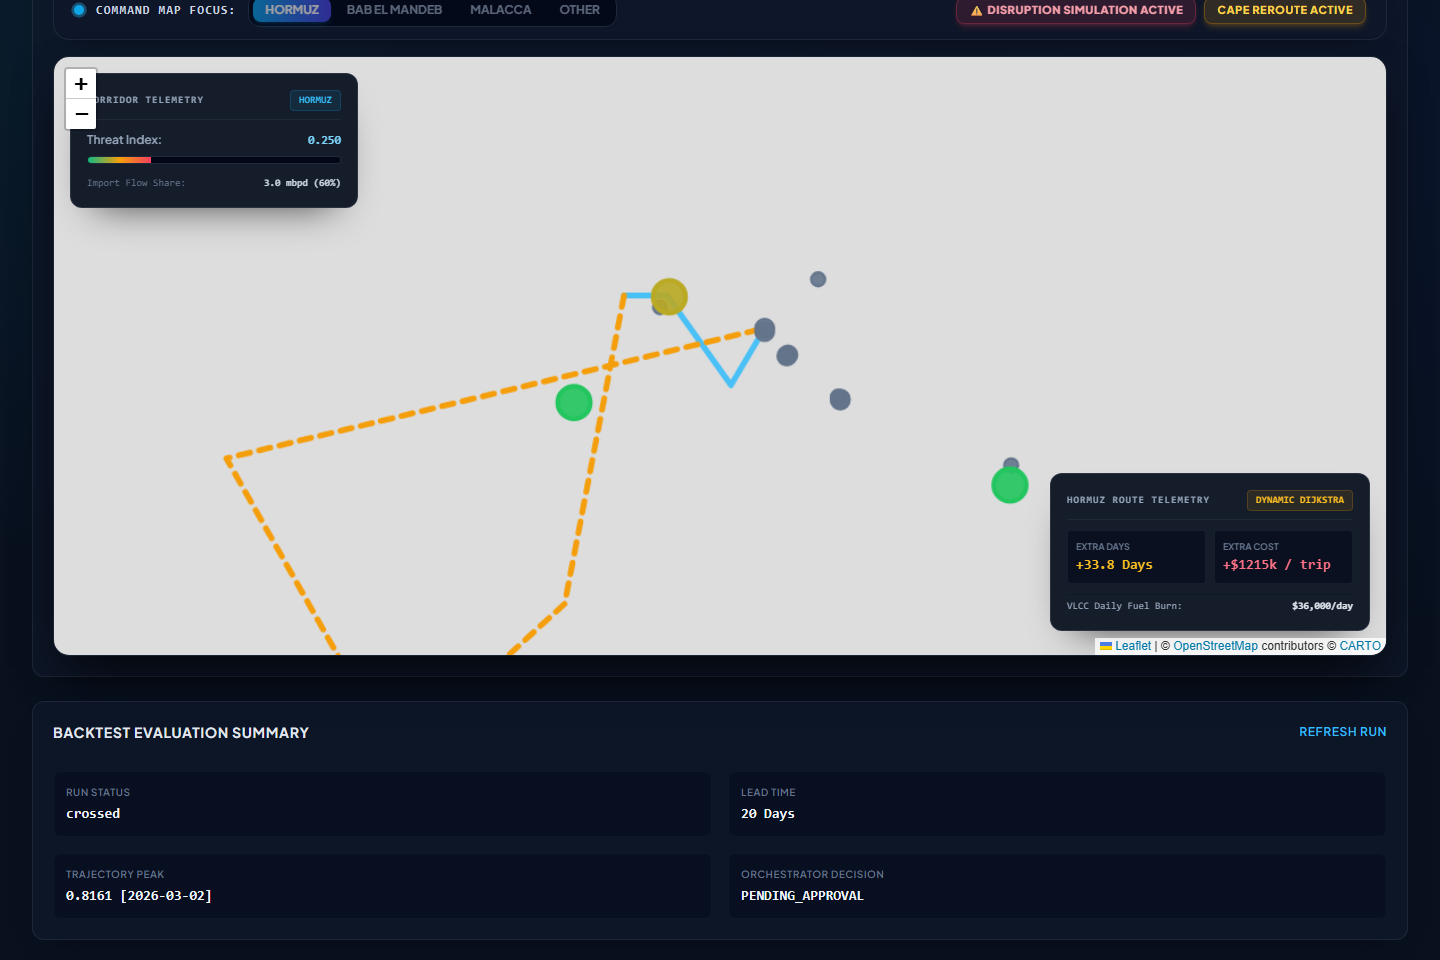
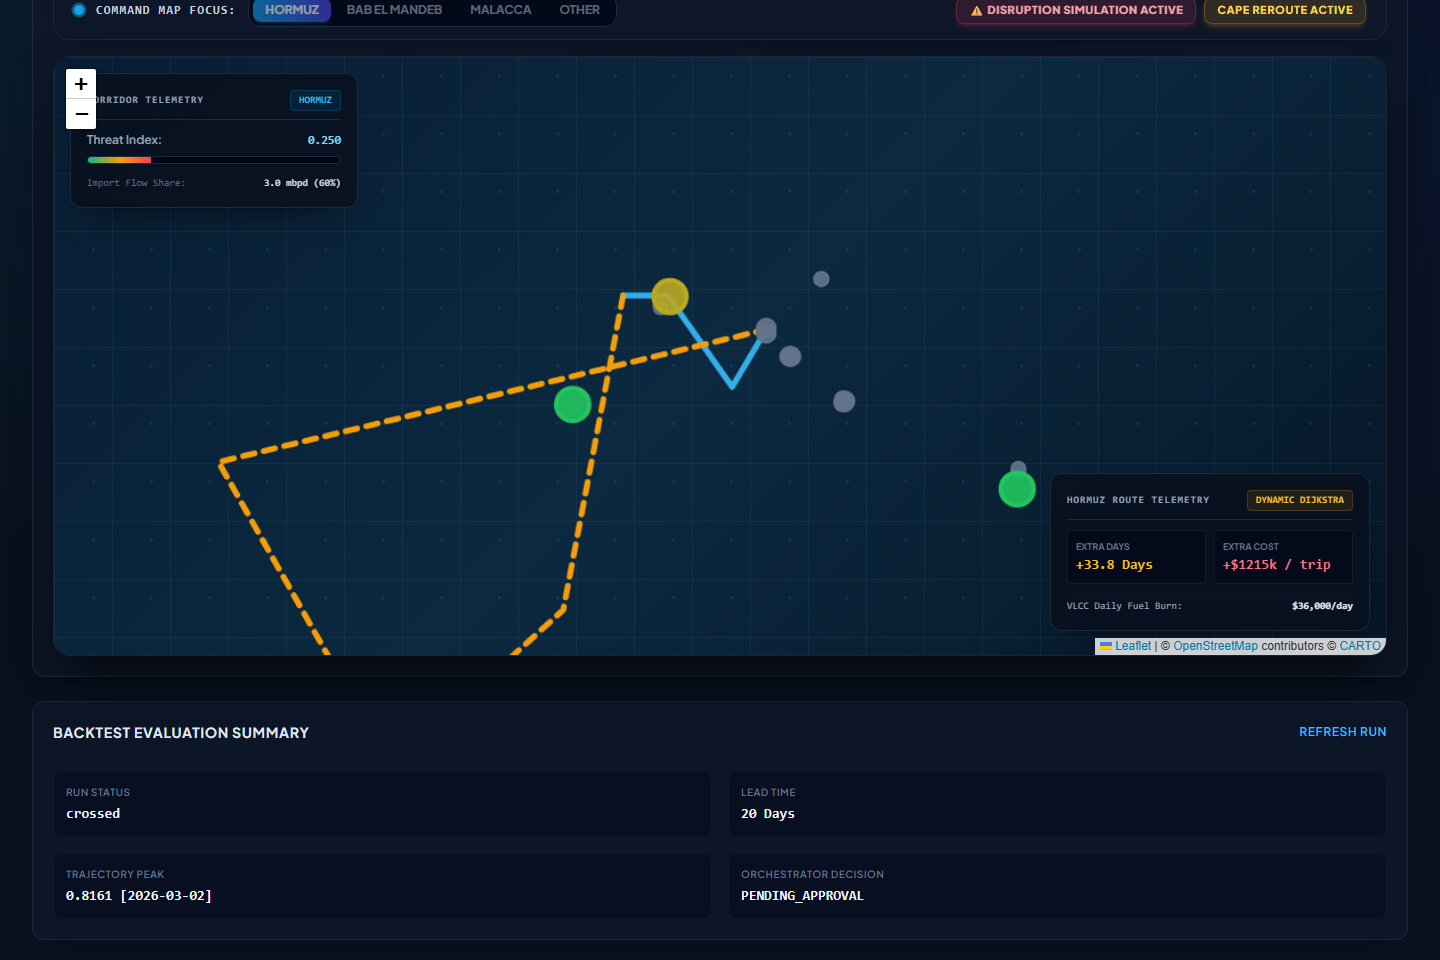
fix: add resilient map fallback

diff --git a/frontend/src/components/MapView.tsx b/frontend/src/components/MapView.tsx
@@ -221,6 +221,19 @@ export default function MapView({
         id="setu-map-container"
         className="h-[600px] w-full overflow-hidden rounded-2xl border border-slate-800/80 shadow-2xl shadow-black/80 bg-[#070b14] relative group"
       >
+        {useOfflineTiles && (
+          <div className="setu-map-fallback absolute inset-0" aria-label="Offline basemap fallback">
+            <span className="absolute left-[12%] top-[26%] text-[10px] font-mono font-bold tracking-[0.28em] text-sky-200/35">
+              ARABIAN SEA
+            </span>
+            <span className="absolute right-[13%] bottom-[20%] text-[10px] font-mono font-bold tracking-[0.28em] text-sky-200/35">
+              INDIAN OCEAN
+            </span>
+            <span className="absolute bottom-4 left-4 rounded border border-sky-400/20 bg-slate-950/75 px-3 py-1.5 text-[10px] font-mono font-semibold uppercase tracking-wider text-sky-200/80">
+              Basemap unavailable · route geometry active
+            </span>
+          </div>
+        )}
         {/* Floating Left Overlay Panel (Threat Metrics HUD) */}
         <div className="absolute top-4 left-4 z-[1000] w-72 bg-glass-heavy p-4 rounded-xl border border-slate-800/90 shadow-2xl pointer-events-auto space-y-3">
           <div className="flex items-center justify-between border-b border-slate-800 pb-2">
@@ -279,19 +292,21 @@ export default function MapView({
           </div>
         </div>
 
-        <MapContainer center={MAP_CENTER} zoom={MAP_ZOOM} className="h-full w-full">
+        <MapContainer
+          center={MAP_CENTER}
+          zoom={MAP_ZOOM}
+          className={`h-full w-full ${useOfflineTiles ? "setu-map-offline" : ""}`}
+        >
           <MapRecenter center={targetCenter} />
-          <TileLayer
-            attribution='&copy; <a href="https://www.openstreetmap.org/copyright">OpenStreetMap</a> contributors &copy; <a href="https://carto.com/attributions">CARTO</a>'
-            url={
-              useOfflineTiles
-                ? "/tiles/{z}/{x}/{y}.png"
-                : "https://{s}.basemaps.cartocdn.com/dark_all/{z}/{x}/{y}{r}.png"
-            }
-            eventHandlers={{
-              tileerror: () => setUseOfflineTiles(true),
-            }}
-          />
+          {!useOfflineTiles && (
+            <TileLayer
+              attribution='&copy; <a href="https://www.openstreetmap.org/copyright">OpenStreetMap</a> contributors &copy; <a href="https://carto.com/attributions">CARTO</a>'
+              url="https://{s}.basemaps.cartocdn.com/dark_all/{z}/{x}/{y}{r}.png"
+              eventHandlers={{
+                tileerror: () => setUseOfflineTiles(true),
+              }}
+            />
+          )}
 
           {/* Dynamic Normal Route Line (Cyan) */}
           <Polyline

diff --git a/frontend/src/index.css b/frontend/src/index.css
@@ -43,6 +43,34 @@
     linear-gradient(to bottom, rgba(255, 255, 255, 0.02) 1px, transparent 1px);
 }
 
+/* Intentional offline map surface when external raster tiles are unavailable. */
+.setu-map-fallback {
+  background-color: #071525;
+  background-image:
+    radial-gradient(ellipse at 46% 42%, rgba(30, 88, 112, 0.35) 0%, rgba(12, 35, 56, 0.2) 32%, transparent 62%),
+    linear-gradient(rgba(56, 189, 248, 0.08) 1px, transparent 1px),
+    linear-gradient(90deg, rgba(56, 189, 248, 0.08) 1px, transparent 1px);
+  background-size: auto, 48px 48px, 48px 48px;
+}
+
+.leaflet-container.setu-map-offline {
+  background: transparent;
+}
+
+/* Keep the operational map legible while remote basemap tiles are loading or
+   unavailable. Successfully loaded tiles naturally paint over this layer. */
+.leaflet-container {
+  /* Leaflet's own stylesheet is imported after this bundle; retain the
+     operational surface instead of falling back to Leaflet's default #ddd. */
+  background-color: #071627 !important;
+  background-image:
+    radial-gradient(circle at 68% 32%, rgba(30, 164, 221, 0.16) 0 1px, transparent 2px),
+    linear-gradient(rgba(91, 164, 204, 0.09) 1px, transparent 1px),
+    linear-gradient(90deg, rgba(91, 164, 204, 0.09) 1px, transparent 1px),
+    linear-gradient(135deg, #081d32 0%, #0b2940 50%, #071627 100%) !important;
+  background-size: 58px 58px, 58px 58px, 58px 58px, 100% 100% !important;
+}
+
 /* Glassmorphism Design System */
 .bg-glass {
   background: rgba(15, 23, 42, 0.82);
